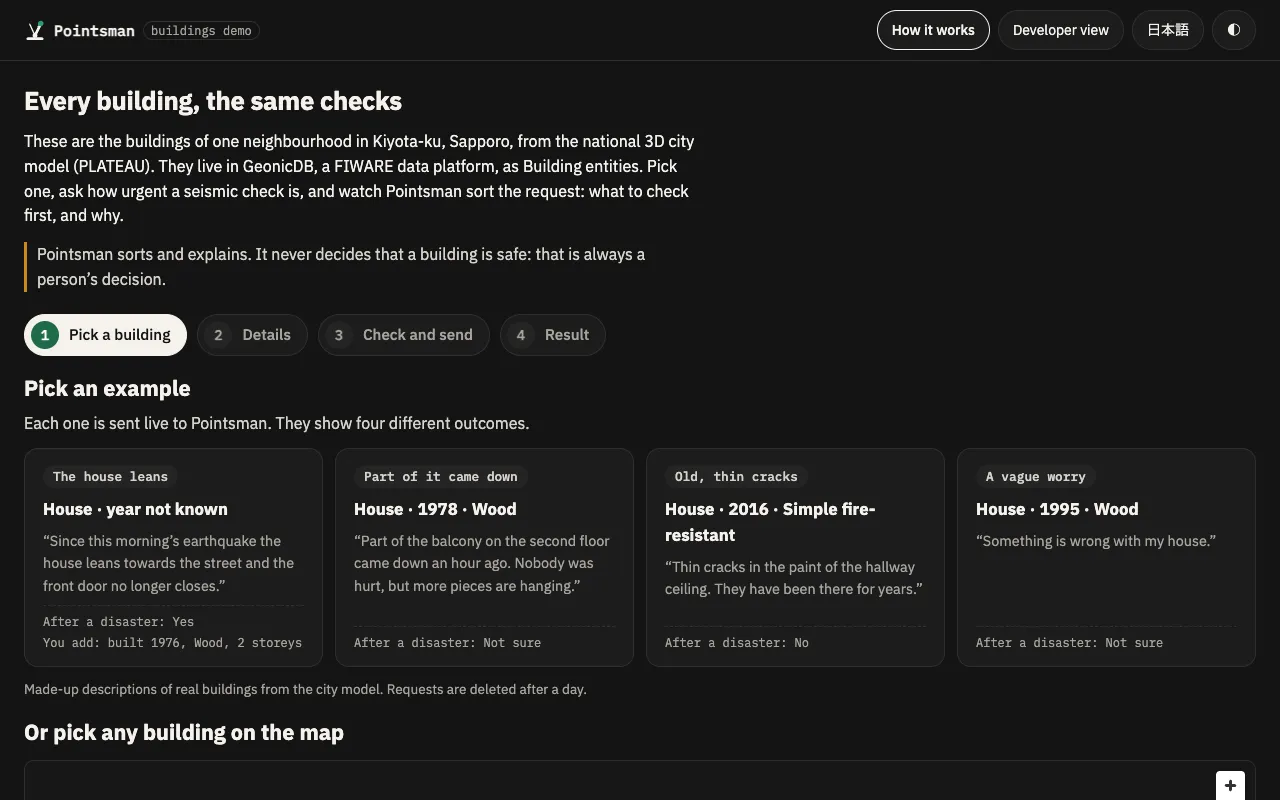
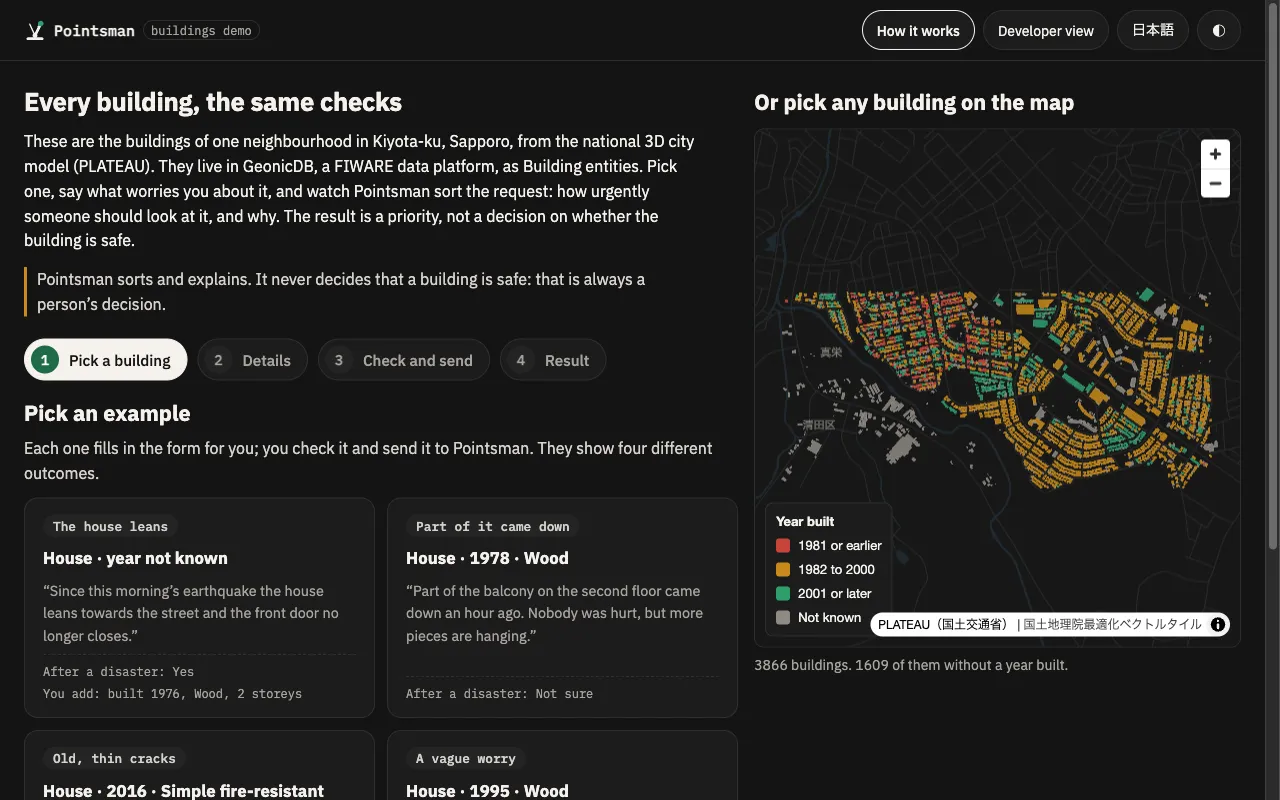
Site: buildings demo card without 'seismic check' (#295)
* Site: the buildings demo card speaks of a priority for a closer look, not a seismic check

The demo no longer speaks of a seismic check (geolonia/pointsman-demo-buildings):
Pointsman says how urgently someone should look at a building. The card
follows; the Japanese title is 建物の確認.

* Site: buildings card wording (describe; その理由)

* Site: new screenshots of the buildings demo (its new wording, the map drawn)

---------

diff --git a/site/ja/demos/index.html b/site/ja/demos/index.html
@@ -79,8 +79,8 @@
       <article class="card demo-card">
         <a class="shot" href="https://buildings.demo.pointsman.net/?lang=ja" tabindex="-1" aria-hidden="true"><img src="../../assets/demos/buildings-ja.webp" alt="" width="1280" height="800" loading="lazy"></a>
         <div class="body">
-          <h2><a href="https://buildings.demo.pointsman.net/?lang=ja">建物の耐震確認</a></h2>
-          <p>札幌の3D都市モデルにある実在の建物です。耐震の確認がどれだけ急ぎかを尋ねると、Pointsman が何を先に確認するか、なぜかを示します。安全かどうかは人が決めます。</p>
+          <h2><a href="https://buildings.demo.pointsman.net/?lang=ja">建物の確認</a></h2>
+          <p>札幌の3D都市モデルにある実在の建物です。気になることを伝えると、Pointsman がどれだけ急いで見に行くべきかと、その理由を示します。安全かどうかは人が決めます。</p>
           <div class="chips"><span class="chip">FIWARE</span><span class="chip">3D都市モデル（PLATEAU）</span><span class="chip">AI が説明を読む</span></div>
           <div class="links">
             <a class="more" href="https://buildings.demo.pointsman.net/?lang=ja">デモを開く →</a>

diff --git a/site/demos/index.html b/site/demos/index.html
@@ -80,7 +80,7 @@
         <a class="shot" href="https://buildings.demo.pointsman.net/?lang=en" tabindex="-1" aria-hidden="true"><img src="../assets/demos/buildings-en.webp" alt="" width="1280" height="800" loading="lazy"></a>
         <div class="body">
           <h2><a href="https://buildings.demo.pointsman.net/?lang=en">Building checks</a></h2>
-          <p>Real buildings from Sapporo's 3D city model. Ask how urgent a seismic check is: Pointsman says what to check first, and why. A person decides if a building is safe.</p>
+          <p>Real buildings from Sapporo's 3D city model. Describe what worries you about one: Pointsman says how urgently someone should look at it, and why. A person decides if it is safe.</p>
           <div class="chips"><span class="chip">FIWARE</span><span class="chip">3D city model (PLATEAU)</span><span class="chip">AI reads the description</span></div>
           <div class="links">
             <a class="more" href="https://buildings.demo.pointsman.net/?lang=en">Open the demo →</a>
